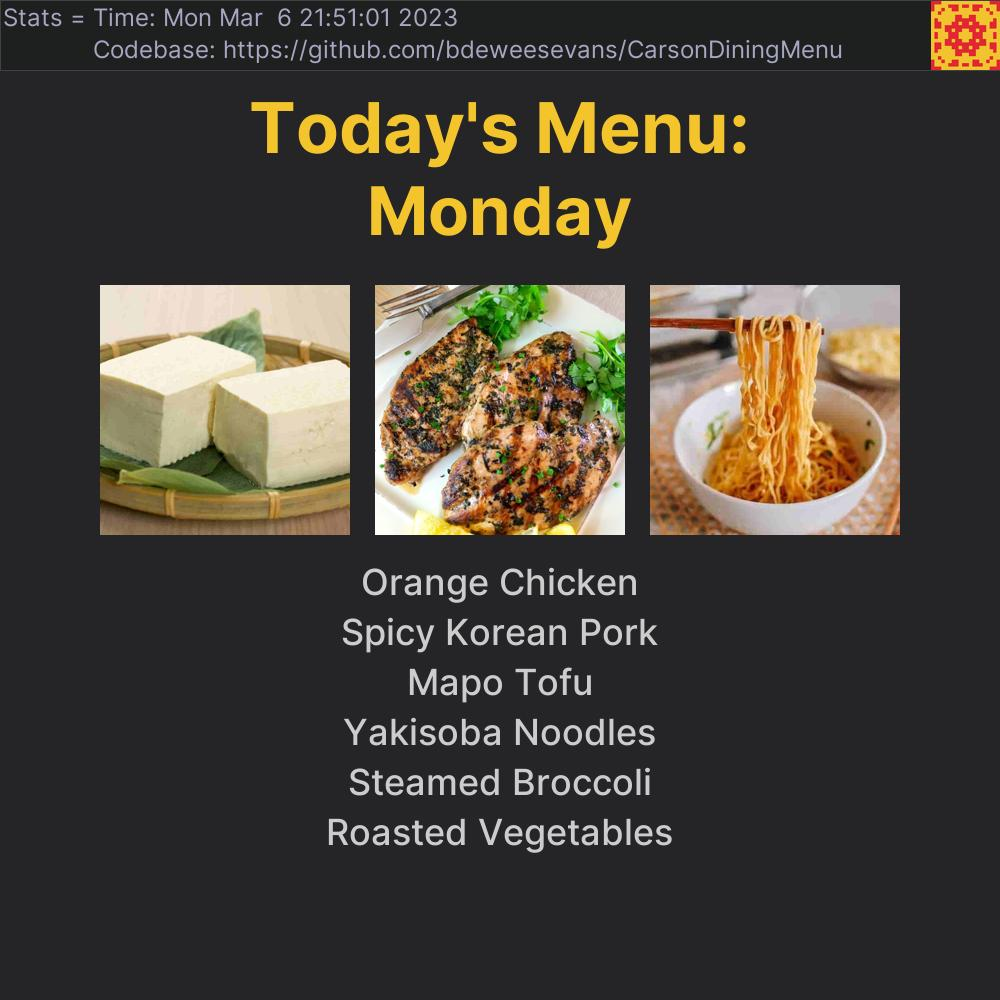
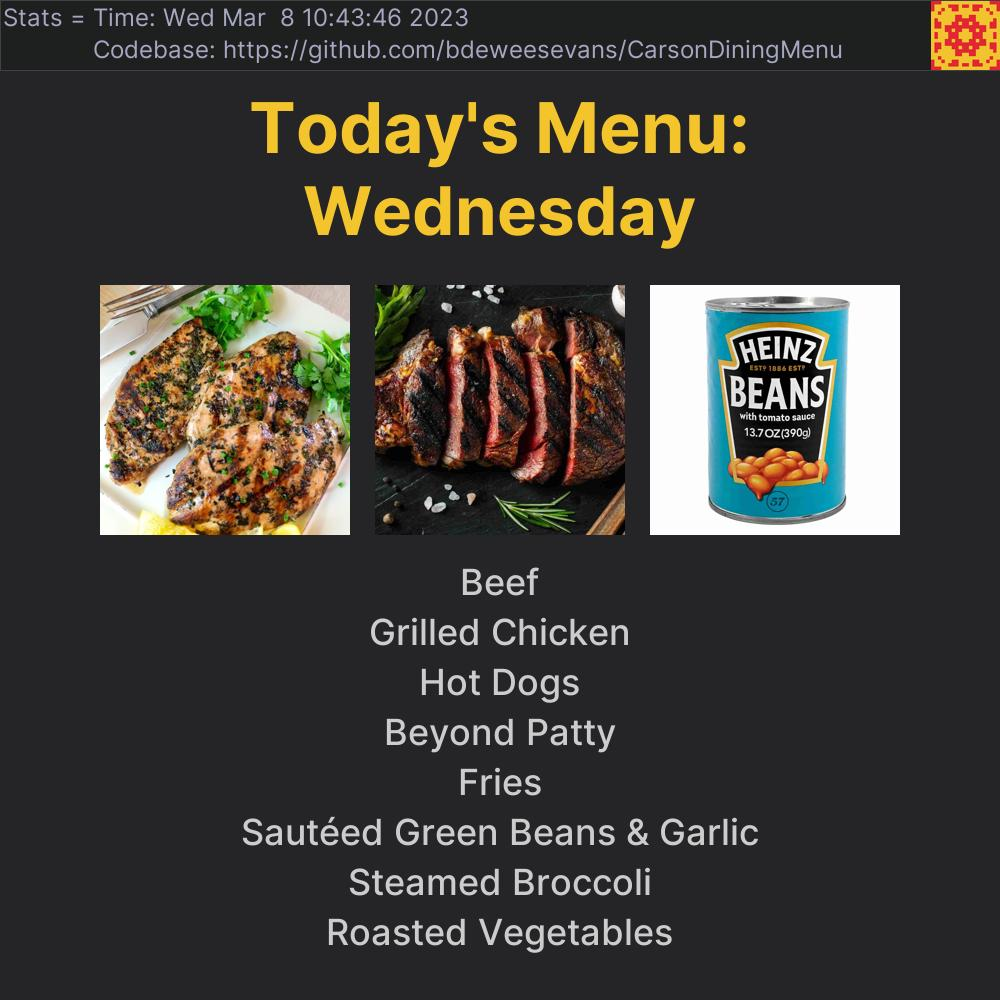
fix to global variables causing no changes in img.

Changed region(s): [[0.093, 0.279, 0.899, 0.961], [0.31, 0.186, 0.713, 0.248], [0.155, 0.0, 0.465, 0.031]]

diff --git a/ImageCreator.py b/ImageCreator.py
@@ -16,16 +16,18 @@ from PIL import Image, ImageDraw, ImageFont
 
 # Declarations for day of the week.
 days = ['Monday','Tuesday','Wednesday','Thursday','Friday','Saturday','Sunday']
-dt = datetime.datetime.now()
-day = dt.weekday()
 
 # Declarations for words we have images for.
 basic_food_words = ['Waffle','Egg','Beans','Beef','Broccoli','Orange','Chicken','Corn','Gnocci',
                     'Mushrooms','Noodles','Pollo','Bacon','Rice','Shrimp','Sweet','Tamales','Tofu',
                     'Vegetables','Verde']
-selected_image_words = []
 
 def image_creator(menu_items, dinner_validity, image_width, image_height):
+    # to reset values with each run
+    dt = datetime.datetime.now()
+    day = dt.weekday()
+    selected_image_words = []
+    
     # Creation of image objects and draw
     img = Image.new('RGB', (image_width, image_height), (37, 36, 39))
     draw = ImageDraw.Draw(img)

diff --git a/InstagramAPI.py b/InstagramAPI.py
@@ -7,10 +7,12 @@ ig_user_id = Keys.keys['ig_user_id']
 user_access_token = Keys.keys['ig_user_access_token']
 
 days = ['Monday', 'Tuesday', 'Wednesday', 'Thursday', 'Friday', 'Saturday', 'Sunday']
-dt = datetime.datetime.now()
-day = dt.weekday()
 
 def postInstagramImage(flickr_image_link, menu_titles):
+    #resets variables woth each run
+    dt = datetime.datetime.now()
+    day = dt.weekday()
+
     # Creates post object
     image_location_1 = flickr_image_link
     post_url = 'https://graph.facebook.com/v16.0/{}/media'.format(ig_user_id)
